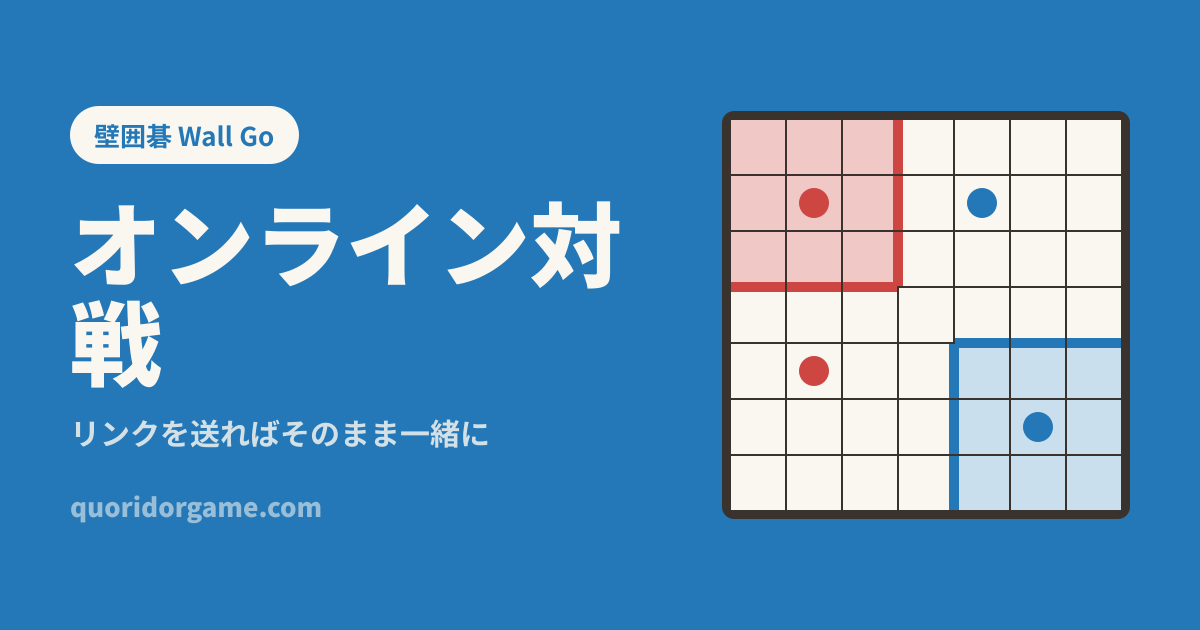
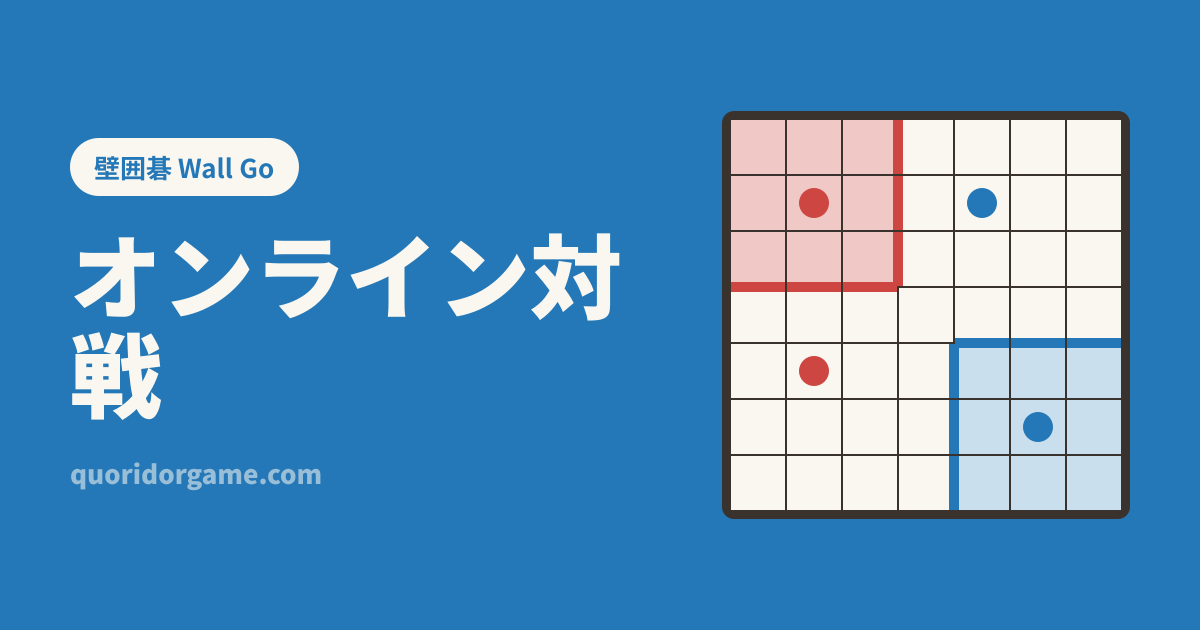
feat(seo): 分享圖拿掉描述句
Zach：「META 圖沒問題，但是描述我不喜歡，全部拔掉」。
圖上只留節目名（或站名）、標題與網址。

- og-design 拿掉標題下面那一行
- 四語系的 ogImage 文案整段刪掉（只有圖用它）
- /local、/online 的 og:description 原本借用 ogImage 的句子，改用全站的
  meta.ogDescription
- 對應的內容測試移除；CLAUDE.md 註明圖上不放描述句
- 24 張重建（1070KB → 935KB）

Claude-Session: https://claude.ai/code/session_01VbfEeJvisc9iRddWhVWALh

Changed region(s): [[0.0617, 0.1508, 0.5242, 0.8444]]

diff --git a/app/i18n/messages/ja.ts b/app/i18n/messages/ja.ts
@@ -54,14 +54,6 @@ const ja: Messages = {
   local: { metaTitle: 'ローカル対戦', srHeading: 'ローカル対戦 | 壁囲碁 Wall Go' },
   online: { metaTitle: 'オンライン対戦', srHeading: 'オンライン対戦 | 壁囲碁 Wall Go' },
   replay: { metaTitle: '棋譜再生', metaDescription: '一手ずつ対局を見返せます。前後への移動も自由です。', srHeading: '棋譜再生 | 壁囲碁 Wall Go', empty: 'このリンクには棋譜がありません', emptyBody: '再生リンクには棋譜が必要です。完全なリンクをもう一度もらってください。', turn: '{total} 手中 {n} 手目', first: '最初に戻る', prev: '前の手', play: '再生', pause: '一時停止', next: '次の手', last: '最後へ' },
-  ogImage: {
-    home: 'いちばん広い陣地を取る · 2〜3人対戦',
-    rules: '配置・移動・壁・囲い・得点',
-    local: '1台の端末で2〜3人が交代',
-    online: 'リンクを送ればそのまま一緒に',
-    solo: 'コンピュータ対戦は3段階',
-    replay: '一手ずつ最初から見直す',
-  },
 
   ui: { next: '次へ', prev: '戻る', startGame: 'ゲームを始める', close: '閉じる', pickLevel: 'レベルを選ぶ' },
   error: { title: 'エラーが発生しました', body: '画面の処理中にエラーが起きました。再読み込みすると、たいてい元に戻ります。オンライン対戦は部屋に手がすべて残っているので、続きから再開できます。', retry: '再読み込み', home: 'ホームに戻る' },

diff --git a/app/i18n/messages/ko.ts b/app/i18n/messages/ko.ts
@@ -54,14 +54,6 @@ const ko: Messages = {
   local: { metaTitle: '로컬 대전', srHeading: '로컬 대전 | 벽바둑 Wall Go' },
   online: { metaTitle: '온라인 대전', srHeading: '온라인 대전 | 벽바둑 Wall Go' },
   replay: { metaTitle: '기보 다시보기', metaDescription: '한 수씩 대국을 다시 볼 수 있습니다. 앞뒤로 이동도 자유롭습니다.', srHeading: '기보 다시보기 | 벽바둑 Wall Go', empty: '이 링크에는 기보가 없습니다', emptyBody: '다시보기 링크에는 기보가 필요합니다. 전체 링크를 다시 받아 주세요.', turn: '{total}수 중 {n}수', first: '처음으로', prev: '이전 수', play: '재생', pause: '일시정지', next: '다음 수', last: '마지막으로' },
-  ogImage: {
-    home: '가장 넓은 영역 차지하기 · 2~3인 대전',
-    rules: '배치 · 이동 · 벽 · 둘러싸기 · 점수',
-    local: '한 기기에서 2~3명이 번갈아',
-    online: '링크만 보내면 바로 같이',
-    solo: '컴퓨터 상대는 3단계',
-    replay: '한 수씩 처음부터 다시보기',
-  },
 
   ui: { next: '다음', prev: '이전', startGame: '게임 시작', close: '닫기', pickLevel: '난이도 선택' },
   error: { title: '문제가 발생했습니다', body: '화면을 처리하는 중 오류가 났습니다. 새로고침하면 대부분 복구됩니다. 온라인 대전은 방에 모든 수가 남아 있어 이어서 둘 수 있습니다.', retry: '새로고침', home: '홈으로' },

diff --git a/tests/i18n/content.test.ts b/tests/i18n/content.test.ts
@@ -124,40 +124,6 @@ describe('站名', () => {
   });
 });
 
-describe('分享圖文案', () => {
-  const PAGES = ['home', 'rules', 'local', 'online', 'solo', 'replay'] as const;
-
-  it('六頁四語都有，而且不是空的', () => {
-    for (const l of LOCALES) {
-      const og = getMessages(l).ogImage;
-      for (const p of PAGES) {
-        expect(og[p], `${l}.ogImage.${p}`).toBeTruthy();
-        expect(og[p].trim().length, `${l}.ogImage.${p}`).toBeGreaterThan(0);
-      }
-    }
-  });
-
-  /*
-    1200×630 上這行字是 30px。超過四十個字元就得縮到看不清 ——
-    而那只有在別人把連結貼進聊天室時才看得到。
-  */
-  it('每一句都短得放得下（≤ 42 字元）', () => {
-    for (const l of LOCALES) {
-      const og = getMessages(l).ogImage;
-      for (const p of PAGES) {
-        expect(og[p].length, `${l}.ogImage.${p} = 「${og[p]}」`).toBeLessThanOrEqual(42);
-      }
-    }
-  });
-
-  it('同一個語系裡六句各不相同 —— 六頁共用一句就等於沒分頁', () => {
-    for (const l of LOCALES) {
-      const og = getMessages(l).ogImage;
-      expect(new Set(PAGES.map((p) => og[p])).size, l).toBe(PAGES.length);
-    }
-  });
-});
-
 describe('網址組合', () => {
   it('預設語系不加前綴，其餘加', () => {
     expect(localePath('zh-TW', '/')).toBe('/');

diff --git a/app/i18n/messages/en.ts b/app/i18n/messages/en.ts
@@ -55,14 +55,6 @@ const en: Messages = {
   local: { metaTitle: 'Local play', srHeading: 'Local play | Wall Go' },
   online: { metaTitle: 'Online play', srHeading: 'Online play | Wall Go' },
   replay: { metaTitle: 'Replay', metaDescription: 'Step through a whole game of Wall Go, one move at a time.', srHeading: 'Replay | Wall Go', empty: 'This link has no game record', emptyBody: 'A replay link needs the game record attached. Ask for the full link again.', turn: 'Move {n} of {total}', first: 'Back to the start', prev: 'Previous move', play: 'Play', pause: 'Pause', next: 'Next move', last: 'Jump to the end' },
-  ogImage: {
-    home: 'Claim the biggest territory · 2–3 players',
-    rules: 'Place, move, wall, enclose, score',
-    local: 'One device, 2–3 players taking turns',
-    online: 'Send a friend the link and play together',
-    solo: 'Three levels of computer opponent',
-    replay: 'Step back through a whole game',
-  },
 
   ui: { next: 'Next', prev: 'Back', startGame: 'Start playing', close: 'Close', pickLevel: 'Pick a level' },
   error: { title: 'Something went wrong', body: 'The page hit an error. Reloading usually fixes it — online games pick up where you left off, because the room keeps every move.', retry: 'Reload', home: 'Back to home' },

diff --git a/app/i18n/metadata.ts b/app/i18n/metadata.ts
@@ -44,9 +44,9 @@ function copy(locale: Locale, path: PagePath) {
     case '/replay':
       return { title: t.replay.metaTitle, description: t.replay.metaDescription, ogTitle: t.replay.metaTitle, ogDescription: t.replay.metaDescription };
     case '/local':
-      return { title: t.local.metaTitle, description: t.meta.description, ogTitle: t.local.metaTitle, ogDescription: t.ogImage.local };
+      return { title: t.local.metaTitle, description: t.meta.description, ogTitle: t.local.metaTitle, ogDescription: t.meta.ogDescription };
     case '/online':
-      return { title: t.online.metaTitle, description: t.meta.description, ogTitle: t.online.metaTitle, ogDescription: t.ogImage.online };
+      return { title: t.online.metaTitle, description: t.meta.description, ogTitle: t.online.metaTitle, ogDescription: t.meta.ogDescription };
     default:
       return { title: undefined, description: t.meta.description, ogTitle: t.meta.ogTitle, ogDescription: t.meta.ogDescription };
   }

diff --git a/app/i18n/messages/zh-TW.ts b/app/i18n/messages/zh-TW.ts
@@ -65,14 +65,6 @@ const zhTW = {
     一句話超過十來個字，在 1200×630 上就得縮到看不清。
     改這裡要跑 npm run og:build 重建圖，CI 有 og:check 擋著。
   */
-  ogImage: {
-    home: '圍出最大的地盤 · 2–3 人對戰',
-    rules: '擺子、移動、築牆、圈地、計分',
-    local: '同一台裝置，2–3 人輪流下',
-    online: '把連結傳給朋友，點開就能一起下',
-    solo: '電腦對手分三級',
-    replay: '一手一手重看整局',
-  },
 
   ui: { next: '下一步', prev: '上一步', startGame: '開始遊戲', close: '關閉', pickLevel: '選擇難度' },
   error: { title: '出了點問題', body: '畫面執行時出錯了，重新整理通常就能恢復。連線對局的每一手都存在房間裡，重新整理後會接著下。', retry: '重新整理', home: '回首頁' },

diff --git a/CLAUDE.md b/CLAUDE.md
@@ -157,7 +157,8 @@ players/{ A?, B?, C? }/{ uid, displayName, joinedAt }
   只用 `opacity-0` 不會把內容移出無障礙樹。
 - **分享圖**（og:image）**每頁每語系各一張**，共 24 張，由
   `scripts/build-og-images.mjs` 產生到 `public/og/{page}-{locale}.png`，
-  版面在 `scripts/og-design.mjs`。改了 `ogImage.*` 文案要跑 `npm run og:build`，
+  版面在 `scripts/og-design.mjs`。圖上只有節目名與標題、**不放描述句**（Zach 拔掉的）。
+  改了標題相關文案（`metaTitle`、`titleLine1/2`、`showName`）要跑 `npm run og:build`，
   CI 有 `og:check` 擋著。
   **不要改用 Next 的 `opengraph-image.tsx`** —— 那個慣例產出的檔案沒有副檔名
   （`out/rules/opengraph-image-1mfdno`），`aws s3 sync` 推不出 Content-Type，
